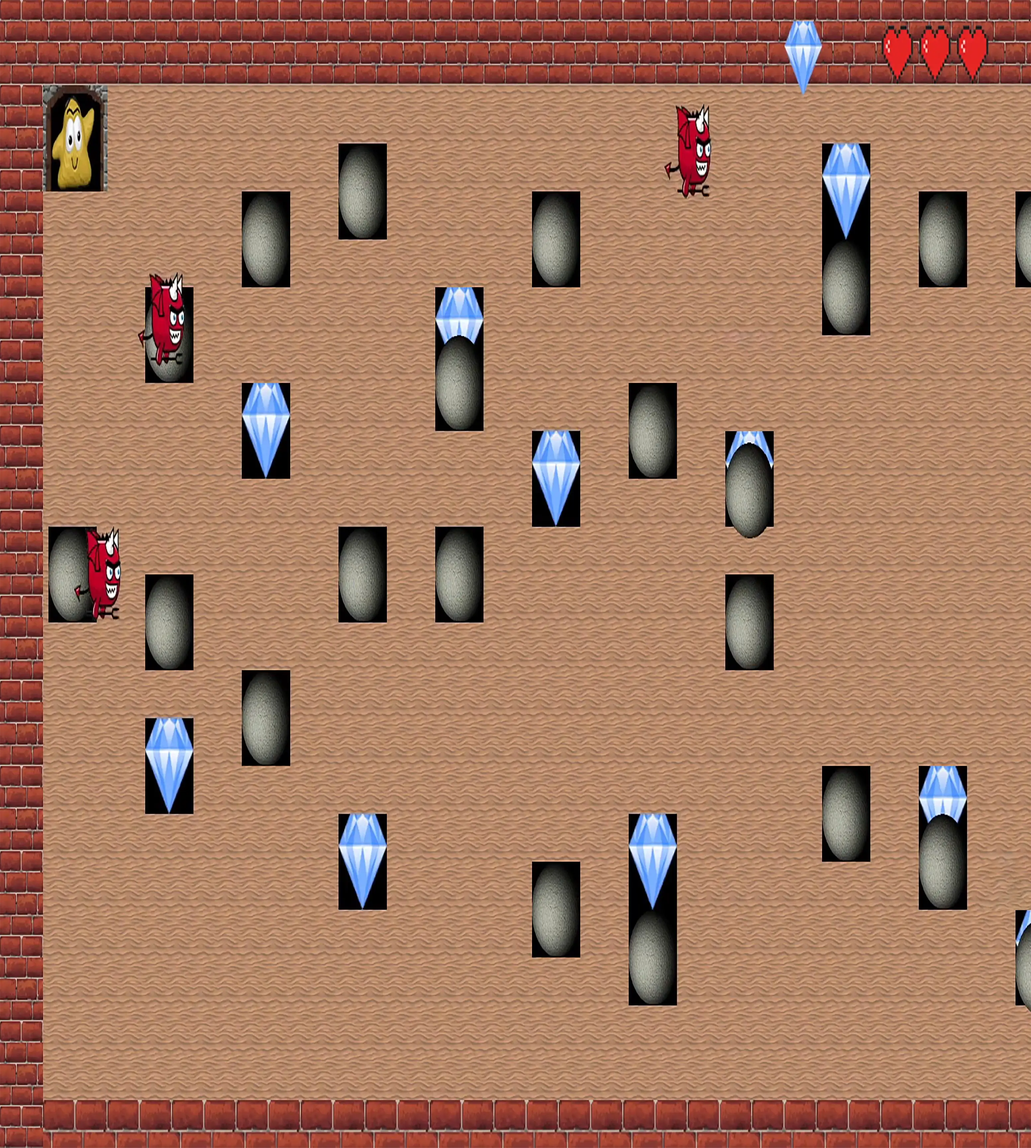
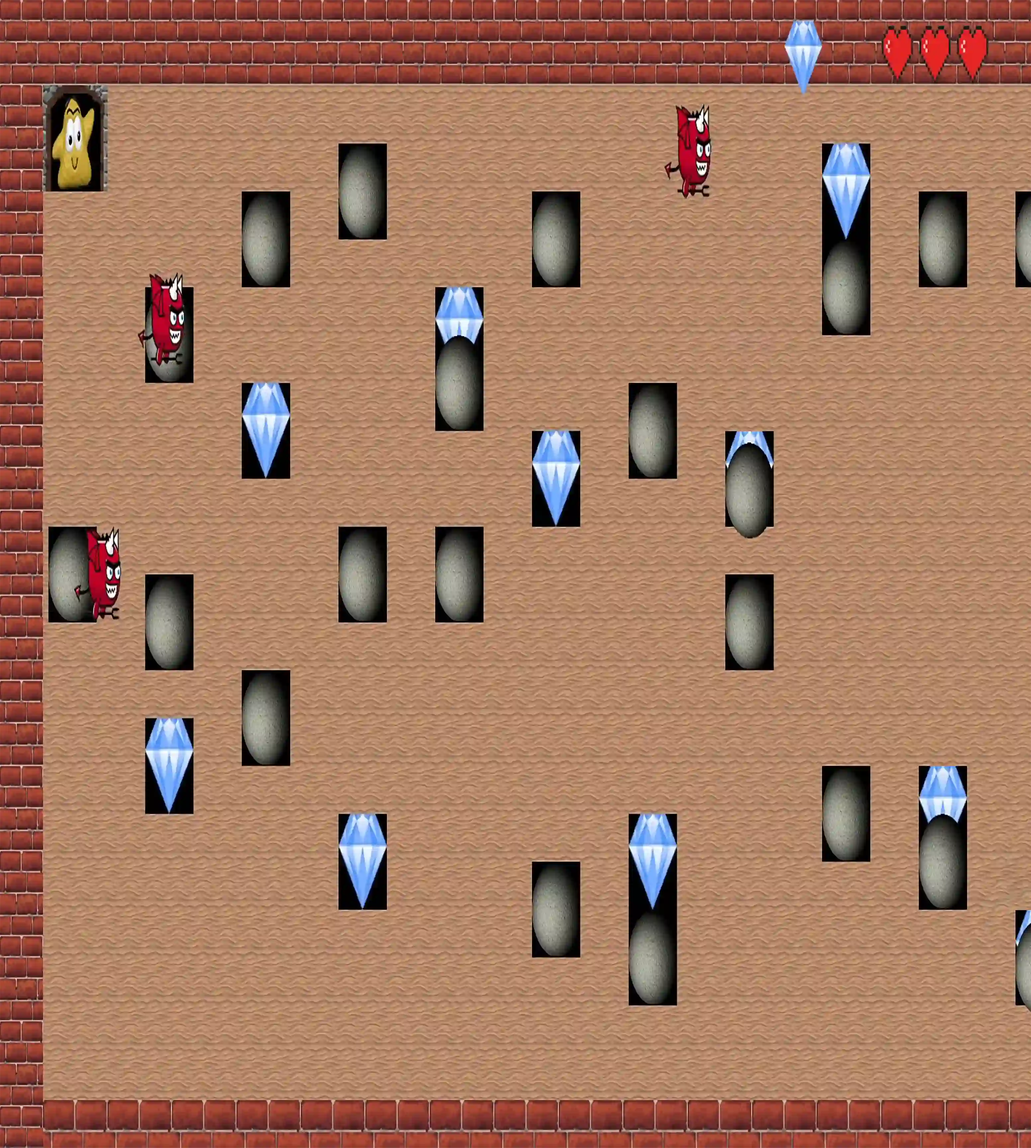
enhance performance

Changed region(s): [[0.8747, 0.0312, 0.906, 0.0625], [0.656, 0.0938, 0.6873, 0.125], [0.1562, 0.25, 0.1874, 0.2812]]

diff --git a/public/styles/style.css b/public/styles/style.css
@@ -146,8 +146,8 @@ section {
 }
 
 .main-container .image {
-    width: 30vw;
-    height: 30vw;
+    width: 33vw;
+    height: 33vw;
     border-radius: 50%;
     overflow: hidden;
     box-shadow: 0 0 50px var(--my-color);
@@ -648,8 +648,8 @@ nav .fa-regular.fa-circle-xmark,
     }
 
     .main-container .image {
-        width: 70vw;
-        height: 70vw;
+        width: 80vw;
+        height: 80vw;
     }
 
     .main-container .content {
